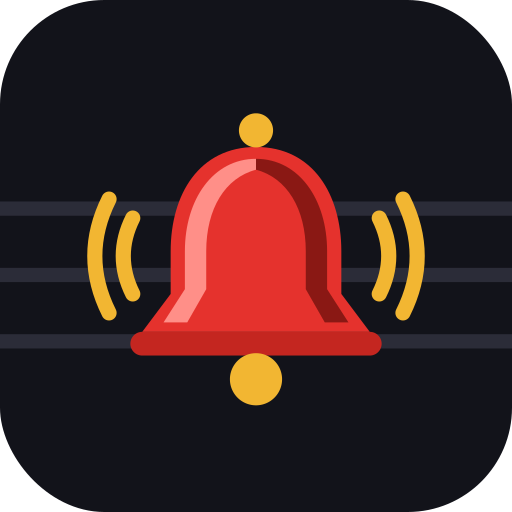
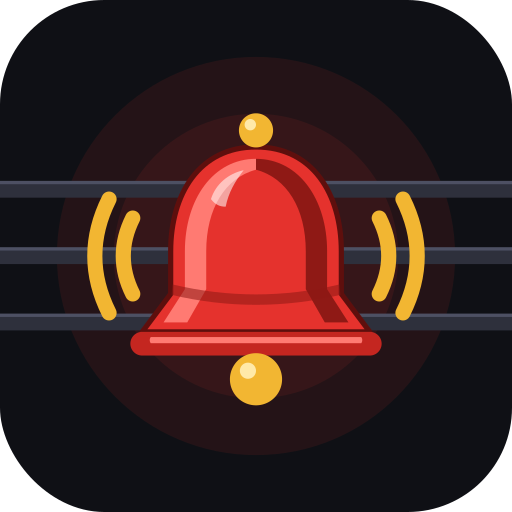
Add files via upload

Changed region(s): [[0.0, 0.2188, 1.0, 0.7812]]

diff --git a/app/src/main/java/com/juincy/ringsidealert/MainActivity.kt b/app/src/main/java/com/juincy/ringsidealert/MainActivity.kt
@@ -9,7 +9,9 @@ import androidx.activity.compose.rememberLauncherForActivityResult
 import androidx.activity.compose.setContent
 import androidx.activity.result.contract.ActivityResultContracts
 import androidx.activity.enableEdgeToEdge
+import androidx.compose.animation.Crossfade
 import androidx.compose.foundation.layout.Box
+import androidx.compose.foundation.layout.fillMaxSize
 import androidx.compose.foundation.layout.padding
 import androidx.compose.material.icons.Icons
 import androidx.compose.material.icons.filled.DateRange
@@ -21,10 +23,15 @@ import androidx.compose.material3.Icon
 import androidx.compose.material3.MaterialTheme
 import androidx.compose.material3.NavigationBar
 import androidx.compose.material3.NavigationBarItem
+import androidx.compose.material3.NavigationBarItemDefaults
 import androidx.compose.material3.Scaffold
 import androidx.compose.material3.Text
 import androidx.compose.runtime.Composable
 import androidx.compose.runtime.LaunchedEffect
+import androidx.compose.runtime.getValue
+import androidx.compose.runtime.mutableStateOf
+import androidx.compose.runtime.saveable.rememberSaveable
+import androidx.compose.runtime.setValue
 import androidx.compose.ui.Modifier
 import kotlinx.coroutines.Dispatchers
 import kotlinx.coroutines.withContext
@@ -68,37 +75,50 @@ fun AppRoot() {
         }
     }
     BackHandler(enabled = Store.open != null) { Store.open = null }
-    Scaffold(
-        containerColor = MaterialTheme.colorScheme.background,
-        bottomBar = {
-            NavigationBar(containerColor = MaterialTheme.colorScheme.surface) {
-                listOf(
-                    "Shows" to Icons.Filled.DateRange,
-                    "Events" to Icons.Filled.PlayArrow,
-                    "Alerts" to Icons.Filled.Notifications,
-                    "Favorites" to Icons.Filled.Star,
-                    "Settings" to Icons.Filled.Settings,
-                ).forEachIndexed { i, (label, icon) ->
-                    NavigationBarItem(
-                        selected = Store.tab == i && Store.open == null,
-                        onClick = { Store.tab = i; Store.open = null },
-                        icon = { Icon(icon, label) },
-                        label = { Text(label) },
-                    )
+    var splash by rememberSaveable { mutableStateOf(true) }
+    Box(Modifier.fillMaxSize()) {
+        Scaffold(
+            containerColor = MaterialTheme.colorScheme.background,
+            bottomBar = {
+                NavigationBar(containerColor = MaterialTheme.colorScheme.surface) {
+                    val cs = MaterialTheme.colorScheme
+                    listOf(
+                        "Shows" to Icons.Filled.DateRange,
+                        "Events" to Icons.Filled.PlayArrow,
+                        "Alerts" to Icons.Filled.Notifications,
+                        "Favorites" to Icons.Filled.Star,
+                        "Settings" to Icons.Filled.Settings,
+                    ).forEachIndexed { i, (label, icon) ->
+                        NavigationBarItem(
+                            selected = Store.tab == i && Store.open == null,
+                            onClick = { Store.tab = i; Store.open = null },
+                            icon = { Icon(icon, label) },
+                            label = { Text(label) },
+                            colors = NavigationBarItemDefaults.colors(
+                                selectedIconColor = cs.primary,
+                                selectedTextColor = cs.primary,
+                                indicatorColor = cs.primary.copy(alpha = 0.16f),
+                                unselectedIconColor = cs.onSurfaceVariant,
+                                unselectedTextColor = cs.onSurfaceVariant,
+                            ),
+                        )
+                    }
+                }
+            },
+        ) { pad ->
+            Box(Modifier.padding(pad)) {
+                Crossfade(targetState = Pair(Store.open, Store.tab), label = "screen") { (open, tab) ->
+                    when {
+                        open != null -> DetailScreen(open)
+                        tab == 0 -> ShowsScreen()
+                        tab == 1 -> EventsScreen()
+                        tab == 2 -> AlertsScreen()
+                        tab == 3 -> FavoritesScreen()
+                        else -> SettingsScreen()
+                    }
                 }
             }
-        },
-    ) { pad ->
-        Box(Modifier.padding(pad)) {
-            val open = Store.open
-            when {
-                open != null -> DetailScreen(open)
-                Store.tab == 0 -> ShowsScreen()
-                Store.tab == 1 -> EventsScreen()
-                Store.tab == 2 -> AlertsScreen()
-                Store.tab == 3 -> FavoritesScreen()
-                else -> SettingsScreen()
-            }
         }
+        if (splash) Splash { splash = false }
     }
 }

diff --git a/app/src/main/java/com/juincy/ringsidealert/Splash.kt b/app/src/main/java/com/juincy/ringsidealert/Splash.kt
@@ -1,0 +1,112 @@
+package com.juincy.ringsidealert
+
+import androidx.compose.animation.core.Animatable
+import androidx.compose.animation.core.FastOutSlowInEasing
+import androidx.compose.animation.core.LinearEasing
+import androidx.compose.animation.core.tween
+import androidx.compose.foundation.Image
+import androidx.compose.foundation.background
+import androidx.compose.foundation.clickable
+import androidx.compose.foundation.interaction.MutableInteractionSource
+import androidx.compose.foundation.layout.Arrangement
+import androidx.compose.foundation.layout.Box
+import androidx.compose.foundation.layout.Column
+import androidx.compose.foundation.layout.fillMaxSize
+import androidx.compose.foundation.layout.fillMaxWidth
+import androidx.compose.foundation.layout.height
+import androidx.compose.foundation.layout.offset
+import androidx.compose.foundation.layout.size
+import androidx.compose.material3.Text
+import androidx.compose.runtime.Composable
+import androidx.compose.runtime.LaunchedEffect
+import androidx.compose.runtime.remember
+import androidx.compose.ui.Alignment
+import androidx.compose.ui.Modifier
+import androidx.compose.ui.graphics.Color
+import androidx.compose.ui.graphics.TransformOrigin
+import androidx.compose.ui.graphics.graphicsLayer
+import androidx.compose.ui.res.painterResource
+import androidx.compose.ui.unit.dp
+import androidx.compose.ui.unit.sp
+import kotlinx.coroutines.delay
+import kotlinx.coroutines.launch
+
+/** Startup animation: ropes draw in, the bell pops up and rings, the name fades in, then it fades away. Tap to skip. */
+@Composable
+fun Splash(onDone: () -> Unit) {
+    val enter = remember { Animatable(0f) }
+    val swing = remember { Animatable(0f) }
+    val pulse = remember { Animatable(0f) }
+    val fade = remember { Animatable(1f) }
+
+    LaunchedEffect(Unit) {
+        enter.animateTo(1f, tween(550, easing = FastOutSlowInEasing))
+        launch { pulse.animateTo(1f, tween(900, easing = LinearEasing)) }
+        swing.animateTo(14f, tween(110))
+        swing.animateTo(-12f, tween(170))
+        swing.animateTo(9f, tween(150))
+        swing.animateTo(-6f, tween(140))
+        swing.animateTo(3f, tween(120))
+        swing.animateTo(0f, tween(120))
+        delay(500)
+        fade.animateTo(0f, tween(350))
+        onDone()
+    }
+
+    Box(
+        Modifier.fillMaxSize()
+            .graphicsLayer { alpha = fade.value }
+            .background(Color(0xFF0B0C10))
+            .clickable(interactionSource = remember { MutableInteractionSource() }, indication = null) { onDone() },
+        contentAlignment = Alignment.Center,
+    ) {
+        Column(
+            Modifier.fillMaxWidth().offset(y = (-65).dp),
+            verticalArrangement = Arrangement.spacedBy(30.dp),
+        ) {
+            repeat(3) {
+                Box(
+                    Modifier.fillMaxWidth().height(4.dp)
+                        .graphicsLayer { scaleX = enter.value; alpha = 0.9f * enter.value }
+                        .background(Color(0xFF2B2C38)),
+                )
+            }
+        }
+        Column(horizontalAlignment = Alignment.CenterHorizontally) {
+            Box(Modifier.size(260.dp), contentAlignment = Alignment.Center) {
+                Image(
+                    painterResource(R.drawable.logo_waves), null,
+                    Modifier.fillMaxSize().graphicsLayer {
+                        val s = 0.9f + 0.18f * pulse.value
+                        scaleX = s
+                        scaleY = s
+                        alpha = enter.value * (1f - 0.4f * pulse.value)
+                    },
+                )
+                Image(
+                    painterResource(R.drawable.logo_bell), null,
+                    Modifier.fillMaxSize().graphicsLayer {
+                        val s = 0.55f + 0.45f * enter.value
+                        scaleX = s
+                        scaleY = s
+                        alpha = enter.value
+                        rotationZ = swing.value
+                        transformOrigin = TransformOrigin(0.5f, 0.3f)
+                    },
+                )
+            }
+            Text(
+                "RINGSIDE", color = Color(0xFFF4F3EF), fontFamily = Dsp, fontSize = 46.sp, letterSpacing = 5.sp,
+                modifier = Modifier.graphicsLayer { alpha = enter.value; translationY = (1f - enter.value) * 40f },
+            )
+            Text(
+                "ALERT", color = Color(0xFFF0463F), fontFamily = Dsp, fontSize = 46.sp, letterSpacing = 9.sp,
+                modifier = Modifier.graphicsLayer { alpha = enter.value; translationY = (1f - enter.value) * 40f },
+            )
+            Text(
+                "Never miss a wrestling show", color = Color(0xFF9A98A0), fontSize = 13.sp,
+                modifier = Modifier.graphicsLayer { alpha = enter.value },
+            )
+        }
+    }
+}

diff --git a/app/src/main/java/com/juincy/ringsidealert/Ui.kt b/app/src/main/java/com/juincy/ringsidealert/Ui.kt
@@ -121,6 +121,11 @@ fun calendarIntent(s: Show): Intent = Intent(Intent.ACTION_INSERT)
     .putExtra(android.provider.CalendarContract.Events.TITLE, s.name)
     .putExtra(android.provider.CalendarContract.Events.DESCRIPTION, "Watch on " + s.network)
 
+fun isLive(s: Show): Boolean {
+    val m = java.time.Duration.between(java.time.ZonedDateTime.now(), s.start).toMinutes()
+    return m >= -180L && m <= 0L
+}
+
 fun tint(c: String): Color = when (c) {
     "WWE" -> Color(0xFFA32D2D)
     "AEW" -> Color(0xFF185FA5)
@@ -193,10 +198,13 @@ fun Heading(small: String, big: String) {
 
 @Composable
 fun Section(t: String) {
-    Text(
-        t, fontFamily = Dsp, fontSize = 22.sp, color = MaterialTheme.colorScheme.onBackground,
-        modifier = Modifier.padding(top = 18.dp, bottom = 8.dp),
-    )
+    Row(Modifier.padding(top = 18.dp, bottom = 8.dp), verticalAlignment = Alignment.CenterVertically) {
+        Box(Modifier.size(width = 4.dp, height = 22.dp).clip(RoundedCornerShape(2.dp)).background(Accent))
+        Text(
+            t, fontFamily = Dsp, fontSize = 22.sp, color = MaterialTheme.colorScheme.onBackground,
+            modifier = Modifier.padding(start = 10.dp),
+        )
+    }
 }
 
 @Composable
@@ -249,7 +257,18 @@ fun Poster(s: Show) {
                 .background(Color(0x8C000000), RoundedCornerShape(10.dp)).padding(horizontal = 9.dp, vertical = 3.dp),
         )
         BellButton(s.id, Modifier.align(Alignment.TopEnd).padding(8.dp))
-        Column(Modifier.align(Alignment.BottomStart).fillMaxWidth().background(Color(0xB0000000)).padding(10.dp)) {
+        if (isLive(s)) {
+            Text(
+                "LIVE", color = Color.White, fontSize = 11.sp, fontFamily = Dsp,
+                modifier = Modifier.align(Alignment.TopStart).padding(start = 8.dp, top = 38.dp)
+                    .background(Accent, RoundedCornerShape(8.dp)).padding(horizontal = 9.dp, vertical = 2.dp),
+            )
+        }
+        Column(
+            Modifier.align(Alignment.BottomStart).fillMaxWidth()
+                .background(Brush.verticalGradient(listOf(Color.Transparent, Color(0xE6000000))))
+                .padding(start = 10.dp, end = 10.dp, bottom = 10.dp, top = 30.dp),
+        ) {
             Text(s.name, color = Color.White, fontFamily = Dsp, fontSize = 18.sp, maxLines = 2, overflow = TextOverflow.Ellipsis)
             Text(
                 whenText(s) + " · " + s.network,
@@ -290,6 +309,23 @@ fun ShowsScreen() {
         item(span = { GridItemSpan(maxLineSpan) }) {
             Column {
                 Heading(LocalDate.now().format(DateTimeFormatter.ofPattern("EEEE, MMM d")), "Ringside Alert")
+                val upNext = Store.shows.filter { it.start.isAfter(java.time.ZonedDateTime.now().minusMinutes(1)) }.minByOrNull { it.start }
+                if (upNext != null) {
+                    val t = whenText(upNext)
+                    val label = if (t == "Live now" || t.contains("·")) t
+                    else upNext.start.format(DateTimeFormatter.ofPattern("EEE, MMM d · h:mm a"))
+                    Row(
+                        Modifier.fillMaxWidth().padding(bottom = 12.dp).bevel(14.dp).clickable { Store.open = upNext.id }.padding(12.dp),
+                        verticalAlignment = Alignment.CenterVertically,
+                    ) {
+                        Column(Modifier.weight(1f)) {
+                            Text("UP NEXT", color = Accent, fontSize = 11.sp, letterSpacing = 1.sp)
+                            Text(upNext.name, fontFamily = Dsp, fontSize = 20.sp, color = MaterialTheme.colorScheme.onSurface)
+                            Text(label + " · " + upNext.network, color = MaterialTheme.colorScheme.onSurfaceVariant, fontSize = 12.sp)
+                        }
+                        BellButton(upNext.id)
+                    }
+                }
                 val rel = Store.rel
                 if (rel != null && Updater.isNewer(rel.version, ver)) {
                     Text(
